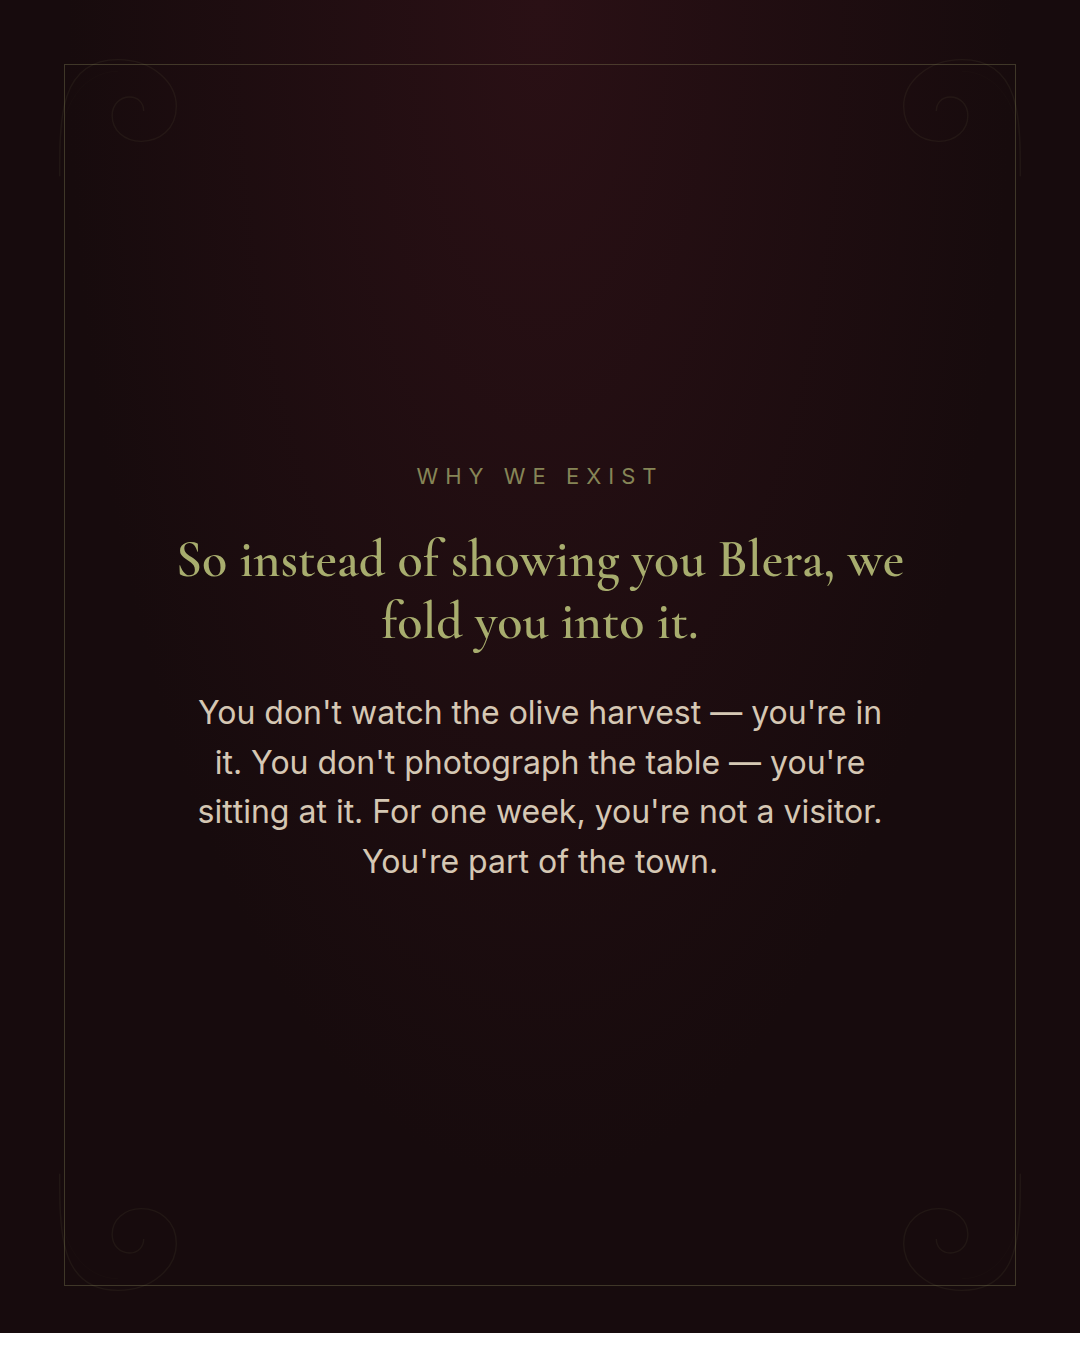
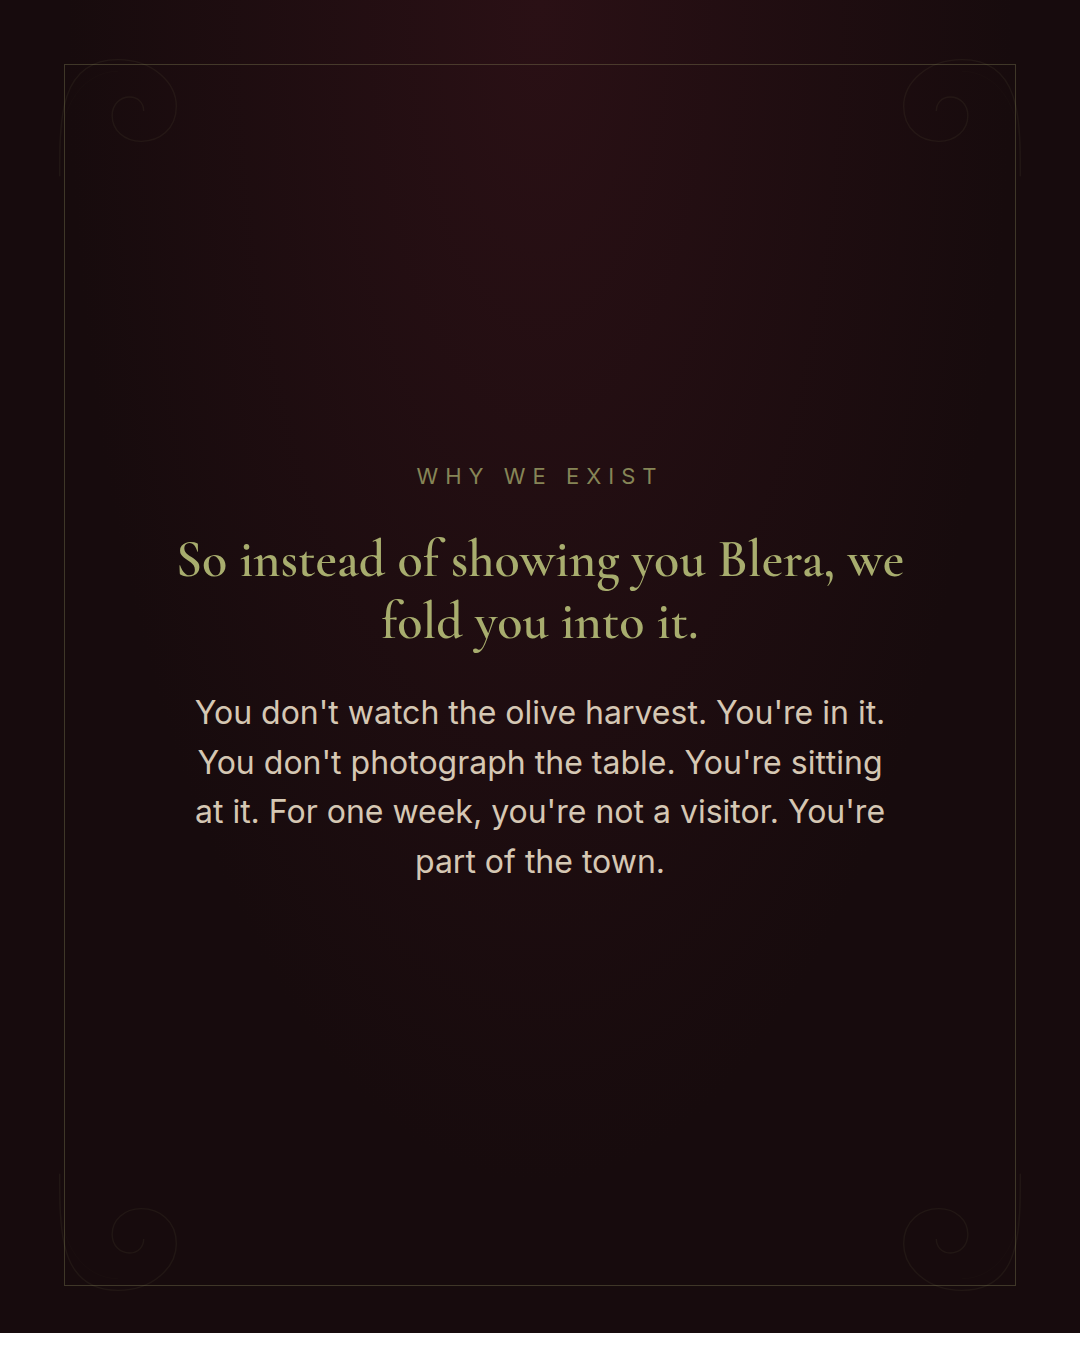
Remove em dashes from carousel copy and caption
Replaced sentence-interruption em dashes with periods/commas across
slides 2, 3, 4, 5, and 7, and the matching caption in
INSTAGRAM_LAUNCH_POSTS.md. Number ranges (6-10, Nov 9-15) keep their
en dashes since those are just date/count ranges, not the stylistic
dash.

Changed region(s): [[0.1833, 0.4978, 0.825, 0.6533]]

diff --git a/INSTAGRAM_LAUNCH_POSTS.md b/INSTAGRAM_LAUNCH_POSTS.md
@@ -28,18 +28,18 @@ instead of spectators of it.
 4. How — "So we keep every group small. 6–10 guests. Never more."
 5. How — "Built around the work the town is already doing."
 6. Where — "Blera. Tuscia, Italy."
-7. What — "Six days as a local — not six days of sightseeing."
+7. What — "Six days as a local, not six days of sightseeing."
 8. CTA — "First departure: Nov 9–15, 2026."
 
 **Caption:**
 ```
 Don't just visit. Belong.
 
-It's human nature to want to belong to something — not just to see a place, but to actually become part of it, even for a few days. That need doesn't go away when you travel. Most trips just ignore it.
+It's human nature to want to belong to something. Not just to see a place, but to actually become part of it, even for a few days. That need doesn't go away when you travel. Most trips just ignore it.
 
-So instead of showing you Blera, we fold you into it. You don't watch the olive harvest — you're in it. You don't photograph the table — you're sitting at it. For one week, you're not a visitor. You're part of the town.
+So instead of showing you Blera, we fold you into it. You don't watch the olive harvest. You're in it. You don't photograph the table. You're sitting at it. For one week, you're not a visitor. You're part of the town.
 
-That's why every group stays small (6–10 guests) and every day is built around the real, seasonal work Blera is already doing — you're simply there for it, alongside the people whose town this is.
+That's why every group stays small (6–10 guests) and every day is built around the real, seasonal work Blera is already doing. You're simply there for it, alongside the people whose town this is.
 
 Blera is a 2,800-year-old Etruscan hill town 90 minutes from Rome, carved into volcanic rock. Almost nobody visits.
 
